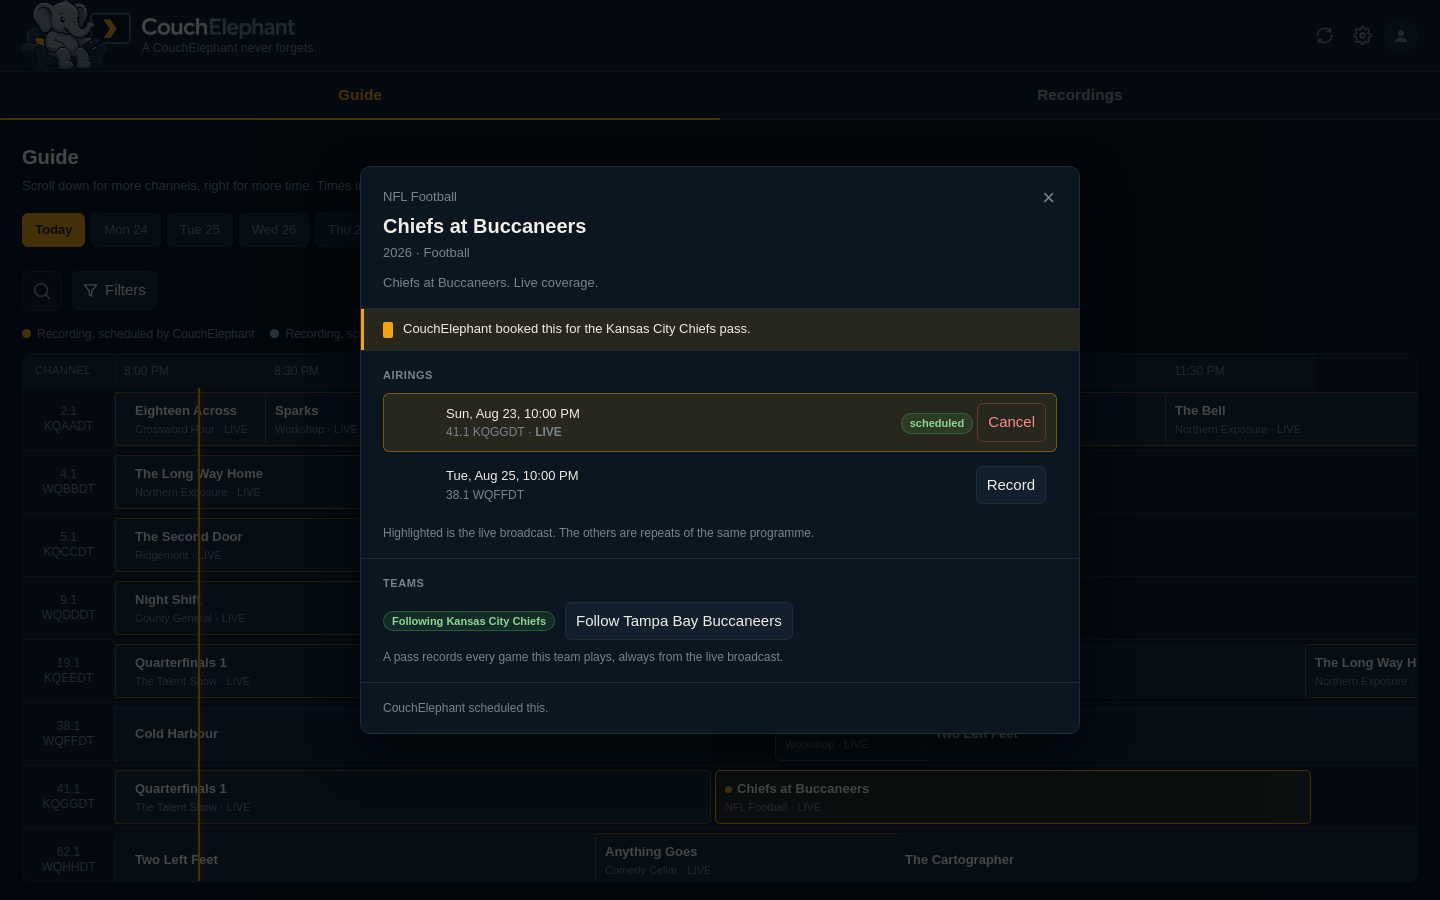
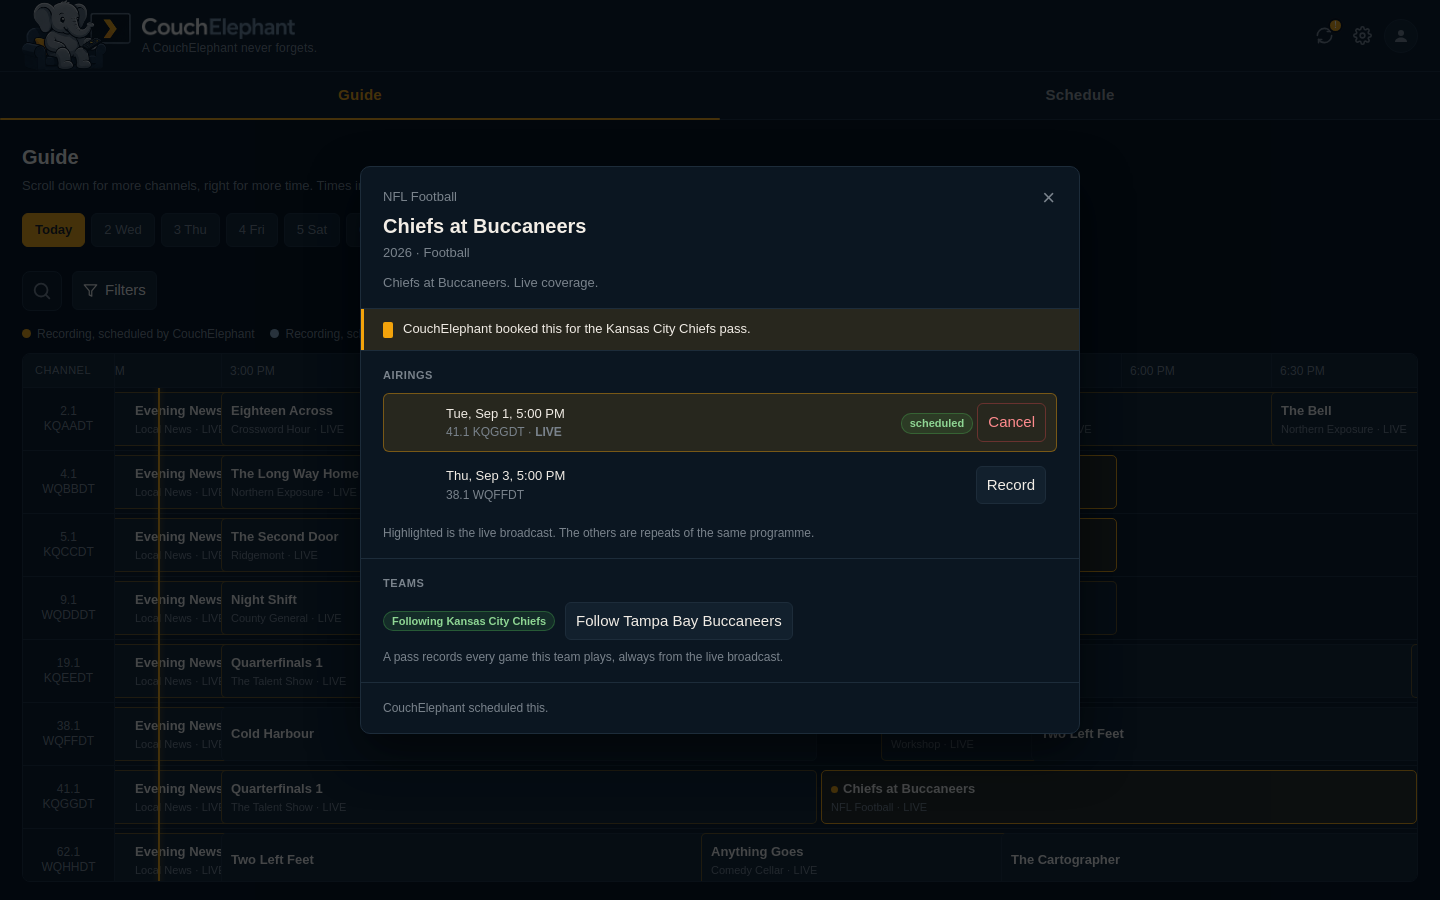
The screenshots said Recordings on the tab that now says Schedule
Every docs image still showed the old tab names, and the Unraid Community
Applications listing serves them straight off main. So the public gallery
contradicted the app for anyone who looked. Remade all 18.

The demo now seeds two announced games, so the calendar shot shows the feature
it is there to show rather than an empty grid. One carries a real date and one
carries only a month, because they are drawn in different places on purpose:
the dated one sits in its cell on the 22nd, and the month-only one sits in the
band under the grid, saying "September 2026" and no day.

The calendar shot is anchored to the legend instead of the top of the page. At
the default scroll the grid was cut off around the third week, which is above
every date an expectation can plausibly carry: the demo guide reaches about
twelve days, and a thing you are waiting for is by definition further out. The
shot was cropping out its own subject.

Call signs follow the same rule as the rest of the demo guide, Q as the second
letter, so nothing here is a real station.

diff --git a/scripts/screenshots.py b/scripts/screenshots.py
@@ -79,6 +79,7 @@ def start_app(plex_url):
     plex = __import__("app.plex", fromlist=["Plex"]).Plex(plex_url, "demo")
     sync.sync_recordings(plex)
     plex.close()
+    _seed_expectations()
 
     port = free_port()
     server = uvicorn.Server(uvicorn.Config(
@@ -90,6 +91,44 @@ def start_app(plex_url):
             raise SystemExit("the app never came up")
         time.sleep(0.05)
     return f"http://127.0.0.1:{port}", server
+
+
+def _seed_expectations():
+    """Two announced games the demo guide has not reached yet.
+
+    Both halves of the feature, because they are drawn in different places on
+    purpose. A dated one goes in its calendar cell; a month-only one goes in the
+    band under the grid, since a cell IS a day and putting a month in one states
+    a broadcast date nobody published.
+
+    Fixed days rather than offsets from today, so the docs image is the same
+    picture every time it is remade. Both sit ~3 weeks out, which is past where
+    any guide reaches, which is exactly why an expectation exists at all.
+    """
+    import datetime
+
+    now = datetime.datetime.now(datetime.UTC)
+
+    def day_of_this_month(day, hour):
+        return int(datetime.datetime(now.year, now.month, day, hour, 0,
+                                     tzinfo=datetime.UTC).timestamp())
+
+    pid = db.one("SELECT id FROM passes WHERE kind = 'team'")["id"]
+    # Invented call signs, same rule as the rest of the demo guide: Q is the
+    # second letter, so nothing here is a real station.
+    rows = [
+        ("demo-exp-1", "Chiefs at Chargers", "KQAADT",
+         day_of_this_month(22, 20), "day"),
+        ("demo-exp-2", "Chiefs at Bills", "WQBBDT",
+         day_of_this_month(26, 12), "month"),
+    ]
+    with db.tx() as c:
+        for sid, title, network, when, precision in rows:
+            c.execute(
+                "INSERT INTO expectations (pass_id, source, source_id, title, "
+                "network, expected_at, precision, updated_at) "
+                "VALUES (?, 'demo', ?, ?, ?, ?, ?, ?)",
+                (pid, sid, title, network, when, precision, int(time.time())))
 
 
 def shot(page, name):
@@ -151,7 +190,18 @@ def main():
         shot(page, "schedule-agenda")
         page.click('[data-view="calendar"]')
         page.wait_for_selector("#calgrid .calday", timeout=20000)
+        # Put the legend at the top of the frame. At the default scroll the grid
+        # is cut off around the third week, which is above every date an
+        # expectation can plausibly carry: the demo guide reaches about twelve
+        # days, and a thing you are WAITING for is by definition further out
+        # than that. So the shot used to crop out the feature it is here to
+        # show. Anchored to the element rather than a pixel count, so a taller
+        # plan card does not silently push the grid back out of frame.
+        page.evaluate(
+            "document.querySelector('.legend').scrollIntoView({block: 'start'})")
+        page.wait_for_timeout(300)
         shot(page, "schedule-calendar")
+        page.evaluate("window.scrollTo(0, 0)")
 
         # ---- passes, with one open ----
         page.click('.subtab[data-sub="passes"]')
